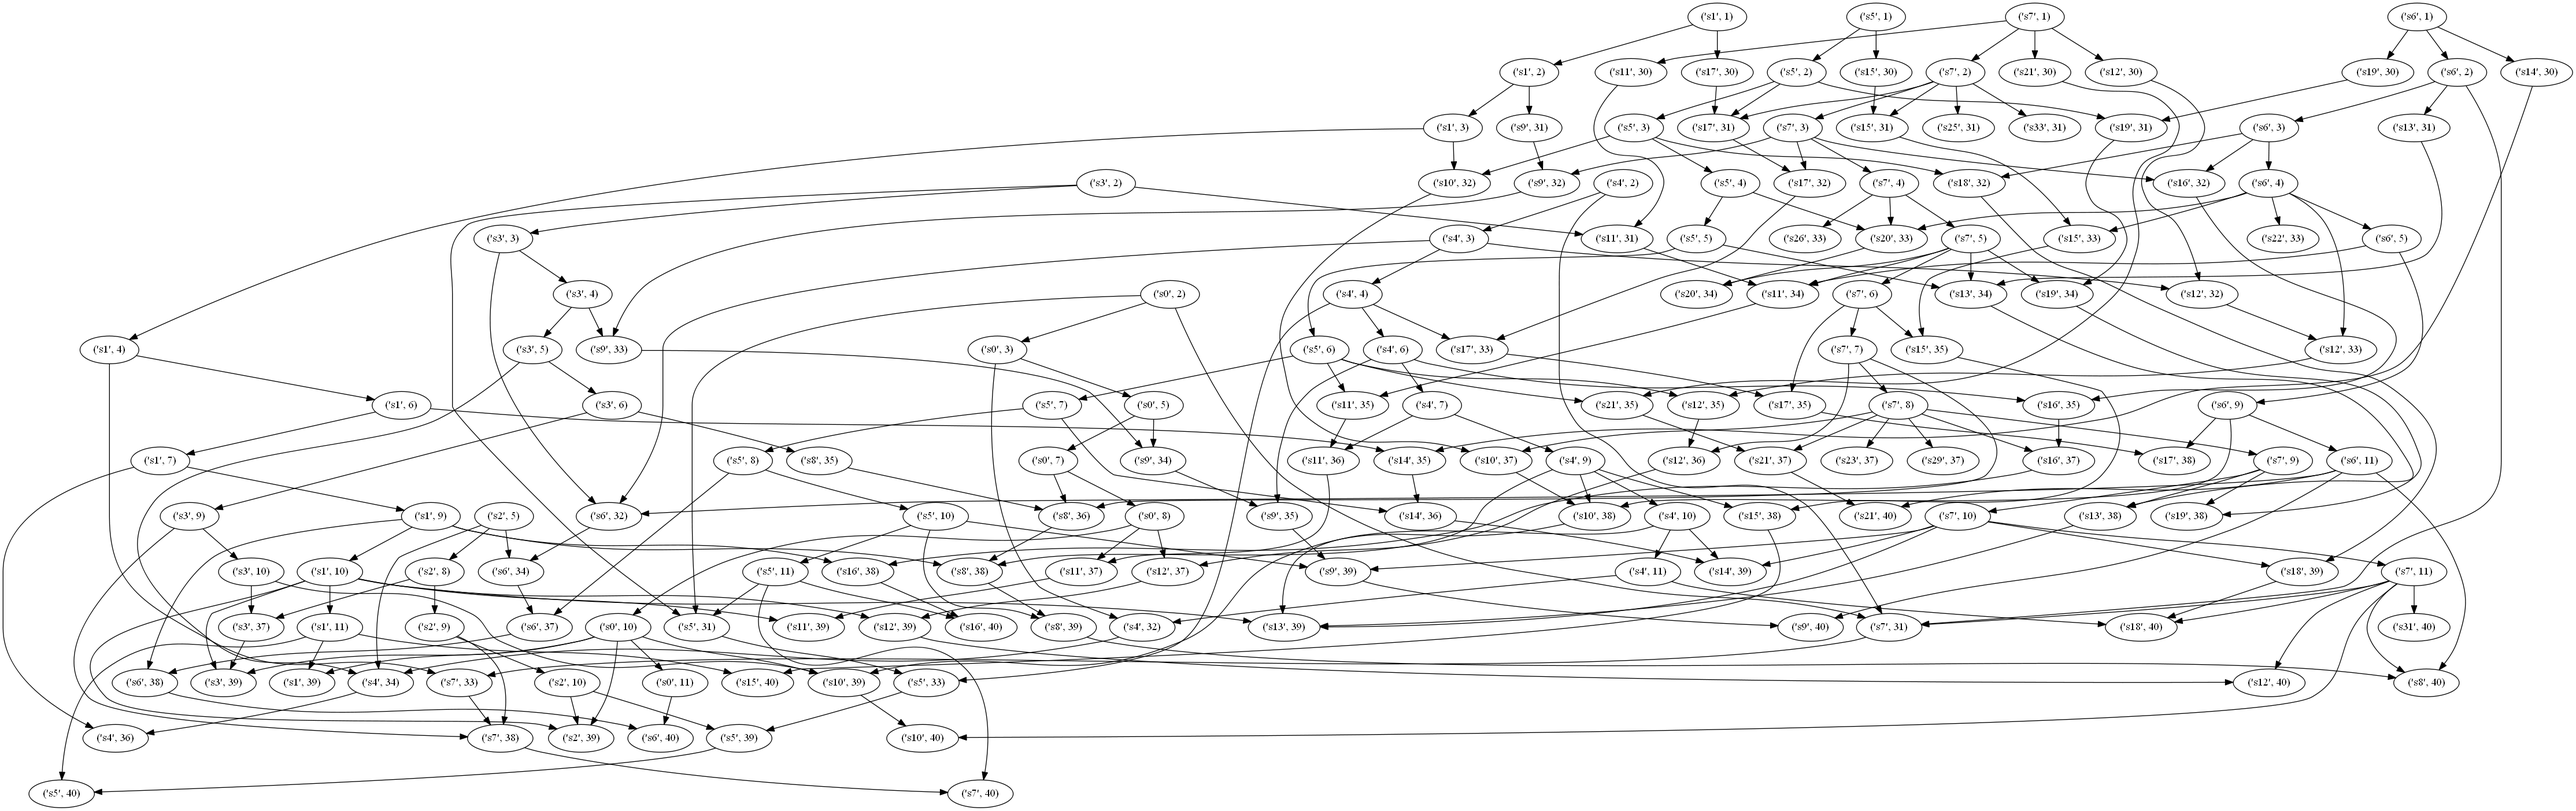
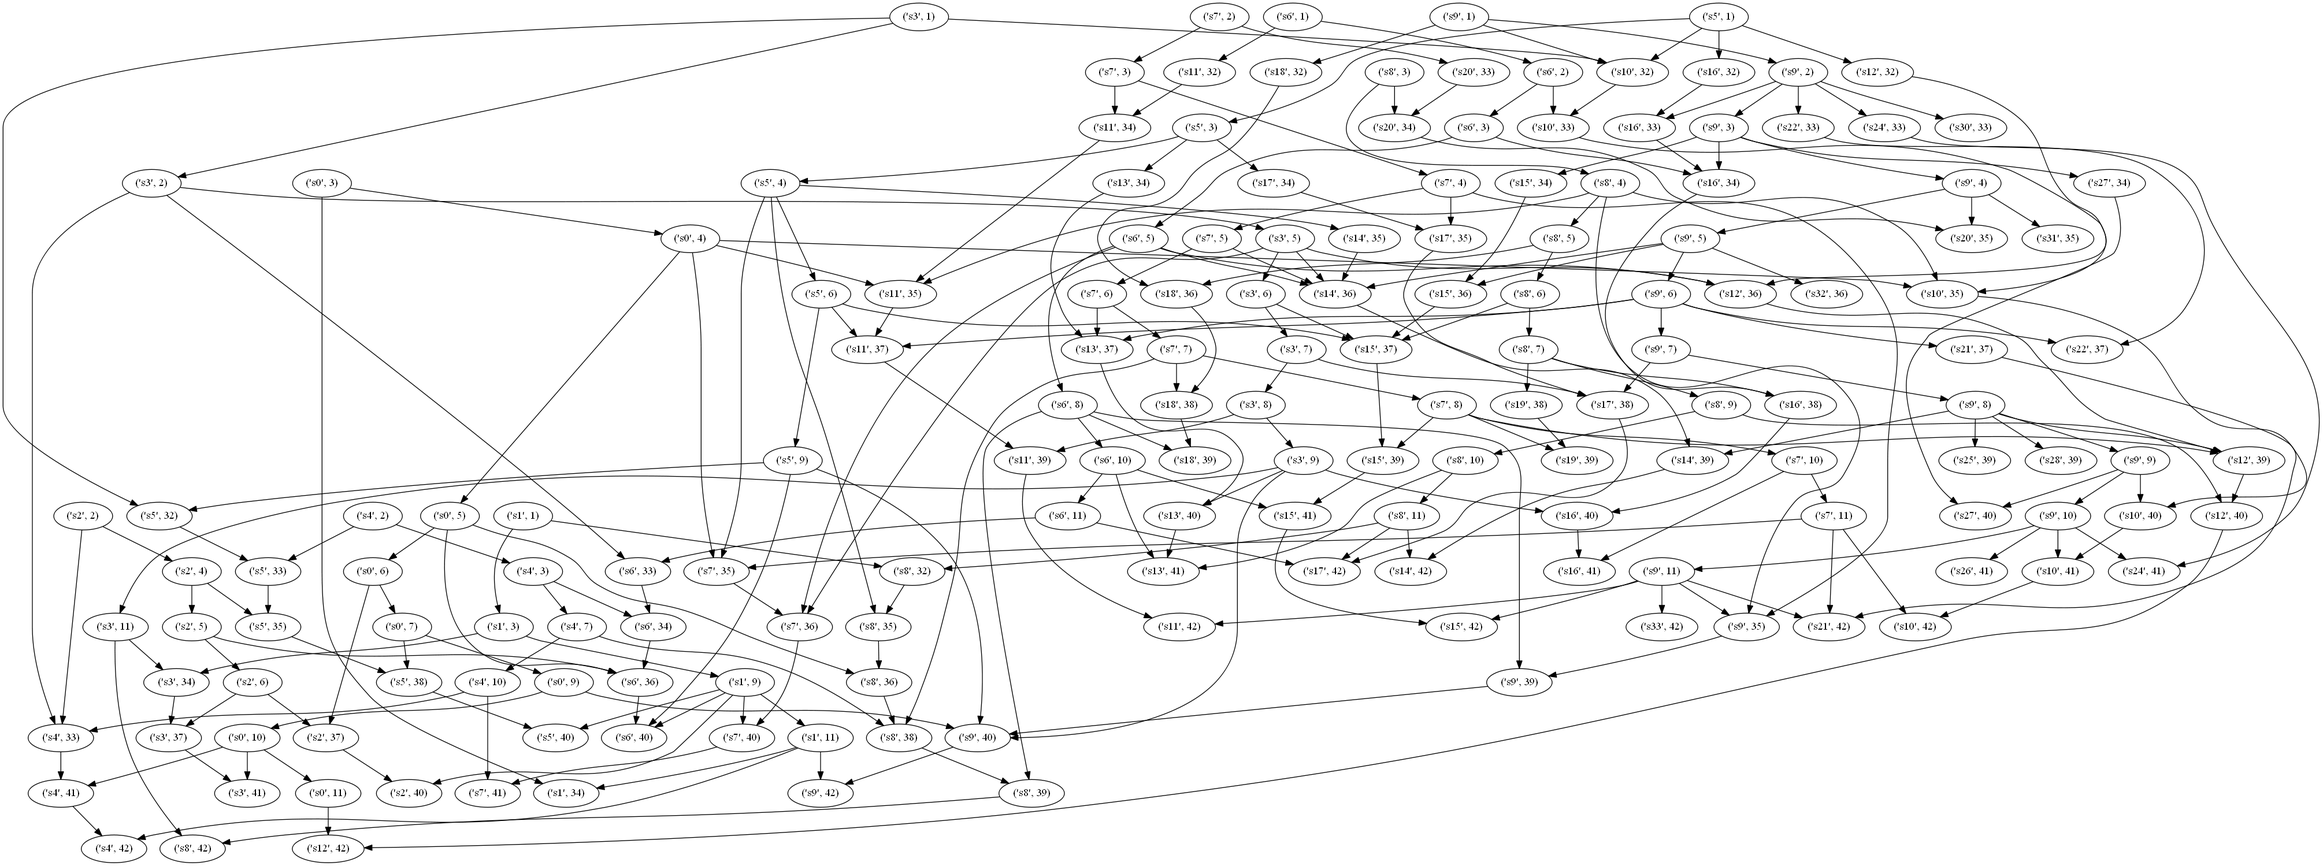
x

diff --git a/performances.py b/performances.py
@@ -42,23 +42,43 @@ def randomMultigraphe(n, m, interval_dates):
 			break
 
 		# On attribue les premieres n-1 arcs pour rélier tous les sommets, tel que tout sommet est rélié à au moins un autre sommet
-		if (i < n):
+		if (i < n - 1):
+
+			
 			print("on rentre car i =", i)
 			source = vertices[i]
-			nbSuccesseursSource = random.randint(1, int(((n % m))/2) + 1)
-			if ( (i + nbSuccesseursSource) > n ):
-				print("en effet:", i + nbSuccesseursSource, ">", n, "donc", n - i - 1 )
-				nbSuccesseursSource = n - i - 1
-			for j in range(1, nbSuccesseursSource):
+			
+			print("il manque a distribuer :", arcsADistribuer)
+
+			nbSuccesseursSource = random.randint(1, int(((arcsADistribuer % n))/2) + 1)					
+			if (nbSuccesseursSource > len(vertices) - i - 2):
+				nbSuccesseursSource = 1
+			print("nbSuccesseursSource", nbSuccesseursSource)
+			# if ( (i + nbSuccesseursSource) > n ):
+			# 	print("en effet:", i + nbSuccesseursSource, ">", n, "donc", n - i - 1 )
+			# 	nbSuccesseursSource = n - i - 1
+			for j in range(1, nbSuccesseursSource+1):
 				dest = vertices[i+j]
-				#date = st.skewnorm.rvs(3, i, 5)
-				#date = int(st.truncnorm.rvs( (borneInf - int(source[1])) / ecartType, (borneSup - int(source[1])) / ecartType, loc=int(source[1]), scale=ecartType ) )
-				date = random.randint(borneInf, borneSup + 1)
-				edges.append((source, dest, date, l))	# format arc : (source : str, dest : str, date : int, lambda l : int)
+				date = st.truncnorm.rvs( (borneInf - int(source[1])) / ecartType, (borneSup - int(source[1])) / ecartType, loc=int(source[1]), scale=ecartType )
+				edges.append((source, dest, int(date), l))	# format arc : (source : str, dest : str, date : int, lambda l : int)
 				arcsADistribuer -= 1
 				print(i, "apres 1 :", arcsADistribuer)
 				if arcsADistribuer == 0:
 					break
+
+
+				# 				# Si i<n, alors il y a probablement des sommets non réliés par des arcs au multigraphe.
+				# # On rajoute la quantité minimale d'arcs à partir de ces sommets vers des successeurs pour ne pas faire planter la simulation.
+				# if (i < n) :
+				# 	print("on a i <n car i = ", i)
+				# 	nbSuccesseursSource = n-i
+				# 	for j in range(nbSuccesseursSource):
+				# 		source = vertices[i-1]
+				# 		dest = random.choice(vertices[vertices.index(source)+1:]) # tous les valeurs sauf le premier sommet (racine)
+				# 		date = st.truncnorm.rvs( (borneInf - int(source[1])) / ecartType, (borneSup - int(source[1])) / ecartType, loc=int(source[1]), scale=ecartType )
+				# 		edges.append((source, dest, int(date), l))	# format arc : (source : str, dest : str, date : int, lambda l : int)
+				# 		print(i, "apres 7 :")
+
 				
 
 		# On s'assure de réserver les derniers arcs à distribuer pour les sommets racine et feuilles
@@ -71,10 +91,8 @@ def randomMultigraphe(n, m, interval_dates):
 				source = vertices[0] # racine
 				dest = random.choice(vertices[1:z+2]) # choix parmi les premiers z sommets sauf la racine
 				print("ja", j)
-				#date = st.skewnorm.rvs(3, i, 5)
-				#date = int( st.truncnorm.rvs( (borneInf - int(source[1])) / ecartType, (borneSup - int(source[1])) / ecartType, loc=int(source[1]), scale=ecartType ) )
-				date = random.randint(borneInf, borneSup + 1)
-				edges.append((source, dest, date, l))
+				date = st.truncnorm.rvs( (borneInf - int(source[1])) / ecartType, (borneSup - int(source[1])) / ecartType, loc=int(source[1]), scale=ecartType )
+				edges.append((source, dest, int(date), l))
 				arcsADistribuer -= 1
 				print(i, "apres 2a :", arcsADistribuer)
 
@@ -84,10 +102,8 @@ def randomMultigraphe(n, m, interval_dates):
 				source = random.choice(vertices[:-z*3+1]) # choix parmi les z*3 derniers sommets
 				dest = random.choice(vertices[vertices.index(source)+1:])
 				print("jb", j)
-				#date = st.skewnorm.rvs(3, i, 5)
-				#date = int( st.truncnorm.rvs( (borneInf - int(source[1])) / ecartType, (borneSup - int(source[1])) / ecartType, loc=int(source[1]), scale=ecartType ) )
-				date = random.randint(borneInf, borneSup + 1)
-				edges.append((source, dest, date, l))
+				date = st.truncnorm.rvs( (borneInf - int(source[1])) / ecartType, (borneSup - int(source[1])) / ecartType, loc=int(source[1]), scale=ecartType )
+				edges.append((source, dest, int(date), l))
 				arcsADistribuer -= 1
 				print(i, "apres 2b :", arcsADistribuer)
 
@@ -97,10 +113,8 @@ def randomMultigraphe(n, m, interval_dates):
 		else:
 			source = random.choice(vertices[:-z]) # tous les valeurs sauf le derniers z sommets (feuilles)
 			dest = random.choice(vertices[vertices.index(source)+1:]) # tous les valeurs sauf le premier sommet (racine)
-			#date = st.skewnorm.rvs(3, i, 5)
-			#date = int( st.truncnorm.rvs(borneInf - int(source[1])) / ecartType, (borneSup - int(source[1])) / ecartType, loc=int(source[1]), scale=ecartType )
-			date = random.randint(borneInf, borneSup + 1)
-			edges.append((source, dest, date, l))	# format arc : (source : str, dest : str, date : int, lambda l : int)
+			date = st.truncnorm.rvs( (borneInf - int(source[1])) / ecartType, (borneSup - int(source[1])) / ecartType, loc=int(source[1]), scale=ecartType )
+			edges.append((source, dest, int(date), l))	# format arc : (source : str, dest : str, date : int, lambda l : int)
 			arcsADistribuer -= 1
 			print(i, "apres 3 :", arcsADistribuer)
 
@@ -109,20 +123,6 @@ def randomMultigraphe(n, m, interval_dates):
 
 	if len(vertices) != n or len(edges) != m :
 		return None
-
-	# Si i<n, alors il y a probablement des sommets non réliés par des arcs au multigraphe.
-	# On rajoute la quantité minimale d'arcs à partir de ces sommets vers des successeurs pour ne pas faire planter la simulation.
-	if (i < n) :
-		print("on a i <n car i = ", i)
-		nbSuccesseursSource = n-i
-		for j in range(nbSuccesseursSource):
-			source = vertices[i-1]
-			dest = random.choice(vertices[vertices.index(source)+1:]) # tous les valeurs sauf le premier sommet (racine)
-			#date = st.skewnorm.rvs(3, i, 5)
-			#date = int(st.truncnorm.rvs( (borneInf - int(source[1])) / ecartType, (borneSup - int(source[1])) / ecartType, loc=int(source[1]), scale=ecartType ) )
-			date = random.randint(borneInf, borneSup + 1)
-			edges.append((source, dest, date, l))	# format arc : (source : str, dest : str, date : int, lambda l : int)
-			print(i, "apres 7 :")
 
 	return Multigraph(n, m, vertices, edges)
 
@@ -161,7 +161,6 @@ def plotPerformances(maxN, maxM, maxInterval_dates, nbTests, nbIterations, save 
 		init_tStart = time.time() # init = initialisation programme = transformation en graphe + calcul d'arbre couvrant
 		mg = randomMultigraphe(n, m, interval_dates)
 		g = mg.transform_to_graph()
-		g.show()
 		p = MinimalDistanceProblem(g, x, y, interval_dates)
 		init_tEnd = time.time()
 		ordonnee_tInit.append(init_tEnd - init_tStart)
@@ -264,7 +263,6 @@ def plotPerformances(maxN, maxM, maxInterval_dates, nbTests, nbIterations, save 
 		plt.savefig("TestResults/" + str(datetime.date.today()) + str(datetime.datetime.now().strftime("_%H_%M_%S")) + ".jpeg", transparent = True)
 	
 	plt.subplots_adjust(left=None, bottom=None, right=None, top=None, wspace=0.2, hspace=0.2)
-	plt.legend(handles = ['red', 'magenta', 'cyan', 'black'], labels=["A","B","C","D"], loc="upper center", borderaxespad=0.1)
 	
 	plt.show()
 
@@ -373,7 +371,6 @@ def plotPerformances_n(minN, maxN, m_fixe, interval_dates_fixe, nbTests, nbItera
 	if (save):
 		plt.savefig("TestResults_n/" + str(datetime.date.today()) + str(datetime.datetime.now().strftime("_%H_%M_%S")) + ".jpeg", transparent = True)
 	
-	#plt.subplots_adjust(left=None, bottom=None, right=None, top=None, wspace=0.2, hspace=0.2)	
 	plt.show()
 
 
@@ -477,7 +474,6 @@ def plotPerformances_m(n_fixe, minM, maxM, interval_dates_fixe, nbTests, nbItera
 	if (save):
 		plt.savefig("TestResults_m/" + str(datetime.date.today()) + str(datetime.datetime.now().strftime("_%H_%M_%S")) + ".jpeg", transparent = True)
 	
-	#plt.subplots_adjust(left=None, bottom=None, right=None, top=None, wspace=0.2, hspace=0.2)	
 	plt.show()
 
 
@@ -580,7 +576,6 @@ def plotPerformances_d(n_fixe, m_fixe, maxInterval_dates, nbTests, nbIterations,
 	if (save):
 		plt.savefig("TestResults_interval_dates/" + str(datetime.date.today()) + str(datetime.datetime.now().strftime("_%H_%M_%S")) + ".jpeg", transparent = True)
 	
-	#plt.subplots_adjust(left=None, bottom=None, right=None, top=None, wspace=0.2, hspace=0.2)	
 	plt.show()
 
 
@@ -610,10 +605,19 @@ def performances():
 	m_fixe = 100
 	interval_dates_fixe = [1,10]
 
-	plotPerformances_n(minN, maxN, m_fixe, interval_dates_fixe, nbTests, nbIterations, save)
-	plotPerformances_m(n_fixe, minM, maxM, interval_dates_fixe, nbTests, nbIterations, save)
-	plotPerformances_d(n_fixe, m_fixe, maxInterval_dates, nbTests, nbIterations, save)
+	#plotPerformances_n(minN, maxN, m_fixe, interval_dates_fixe, nbTests, nbIterations, save)
+	#plotPerformances_m(n_fixe, minM, maxM, interval_dates_fixe, nbTests, nbIterations, save)
+	#plotPerformances_d(n_fixe, m_fixe, maxInterval_dates, nbTests, nbIterations, save)
 
+	rmg = randomMultigraphe(10, 30, [0,10])
+
+	if rmg != None :
+		rmg.show()
 	
+
+	print(rmg)
+
+
+
 
 performances()

diff --git a/graphes2.py b/graphes2.py
@@ -71,40 +71,29 @@ class Multigraph:
 
 
 	# Méthode permettant d'afficher à l'écran un multigraphe orienté et, éventuellement, un titre
-	def showMultigraphe(self, titre = "Multi"):
-		# """ G : un dictionnaire representant un graphe { sommet s : sommets adjacents à s}
-		#     titre : titre du graphe à afficher, 'G' par defaut
-		# """
-		dicto = {}
-		newG = nx.MultiDiGraph()
+	def showMultigraphe(self, title = "Multi"):
+		""" G : un dictionnaire representant un graphe { sommet s : sommets adjacents à s}
+		    titre : titre du graphe à afficher, 'G' par defaut
+		"""
+
+		newG = nx.MultiGraph()
 		newG.add_nodes_from(self.vertices)
 
 		for source, dest, t, w in self.edges:
 			newG.add_edge(source, dest, weight=t)
-			dicto[(source, dest)] = t
 
-		plt.title(titre)
+		plt.title(title)
 		pos = nx.circular_layout(newG)
-		e_labels = nx.get_edge_attributes(newG,'weight')
-		nx.draw_networkx(newG, pos=pos, arrows=True, with_labels=True)
-		nx.draw_networkx_edge_labels(newG, pos = pos, label_pos=0.5, font_size=10)
-		
+		e_labels = nx.get_edge_attributes(newG, 'weight')
+		nx.draw_networkx_edge_labels(newG, pos=pos, edge_labels=e_labels)
+		nx.draw(newG, with_labels=True, node_size=1500, pos=pos)
+
 		toPdot = nx.drawing.nx_pydot.to_pydot
 		pdot = toPdot(newG)
-		#nx.draw(newG, edges_labels=True)
+		pdot.write_png("Multigraph.png")
 
-		pdot.write_png("Multigraphe.png")
 		plt.show()
-		
-	
-		# nx.draw_networkx_edge_labels(newG, pos=pos, edge_labels=e_labels)
-		# nx.draw(newG, with_labels=True, node_size=1500, pos=pos)
 
-		
-		
-		
-
-		plt.show()  
 
 
 

diff --git a/multigraph.py b/multigraph.py
@@ -78,15 +78,12 @@ class Multigraph:
 		plt.title(title)
 		pos = nx.circular_layout(newG)
 		e_labels = nx.get_edge_attributes(newG, 'weight')
-		nx.draw_networkx(newG, pos=pos, arrows=True, with_labels=True)
-		nx.draw_networkx_edge_labels(newG, pos = pos, label_pos=0.5, font_size=10)
-		
+		nx.draw_networkx_edge_labels(newG, pos=pos, edge_labels=e_labels)
+		nx.draw(newG, with_labels=True, node_size=1500, pos=pos)
+
 		toPdot = nx.drawing.nx_pydot.to_pydot
 		pdot = toPdot(newG)
-		# nx.draw(newG, edges_labels=True)
-
 		pdot.write_png("Multigraph.png")
+
 		plt.show()
 		
-		# nx.draw_networkx_edge_labels(newG, pos=pos, edge_labels=e_labels)
-		# nx.draw(newG, with_labels=True, node_size=1500, pos=pos)
